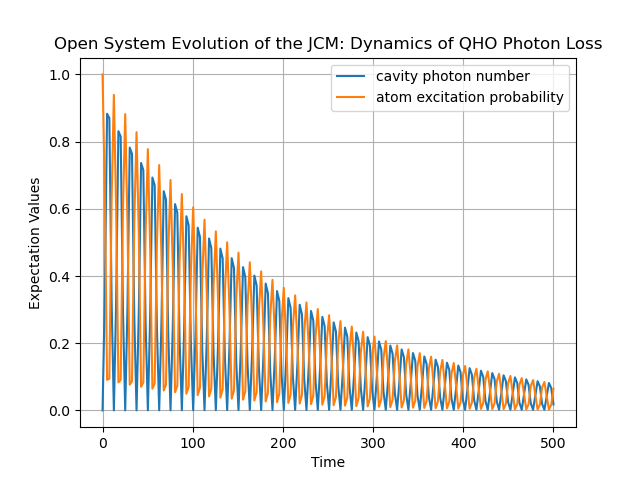
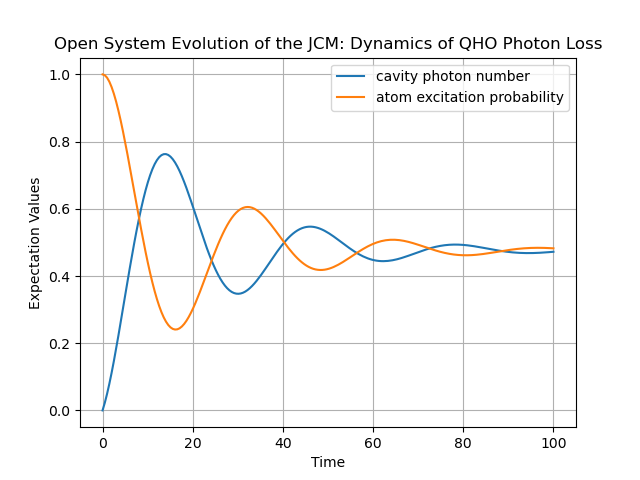
Refactors Simulation code into open and closed sim files for finer control.

diff --git a/Research Project/Code/Open_JCM_Sim.py b/Research Project/Code/Open_JCM_Sim.py
@@ -1,17 +1,20 @@
 from TLSQHOSimulator import TLSQHOSimulator
 import qutip as q
 import numpy as np
-from scipy.constants import k as k_B
+from scipy.constants import k as K_B, h
+
+############################## SETUP ######################################
+
+tlist = np.linspace(0.0, 100.0, 200)
 
 # constants
-w = 1.0
-g = 1.0
+w = 1.0  # natural units, w = 1, hbar =1, kb = 1, GHz freq
+g = 0.1
 N = 2
 
 # Bases
 basis_atom_e = q.basis(2, 0)
 basis_qho_0 = q.basis(N, 0)
-
 
 # Operators
 a = q.tensor(q.qeye(2), q.destroy(N))
@@ -20,60 +23,52 @@ s_z = q.tensor(q.sigmaz(), q.qeye(N))
 s_lower = q.tensor(q.sigmam(), q.qeye(N))
 s_raise = s_lower.dag()
 
-
-psi0 = q.tensor(basis_atom_e, basis_qho_0)
-
-# Jaynes-Cummings Hamiltonian
+# Hamiltonian
 H = 0.5 * w * s_z + w * (adag * a + 0.5) + g * (adag * s_lower + a * s_raise)
 
-# Closed Dynamics
-sim_closed = TLSQHOSimulator(H, psi0)
-results_closed = sim_closed.evolve()
-vne_closed = sim_closed.vne(results_closed)
-coherence_closed = sim_closed.rel_coherence(results_closed)
+# Init cond
+psi0 = q.tensor(basis_atom_e, basis_qho_0)
 
-# Open Dynamics (Spontaneous Emission)
-gamma = np.sqrt(0.1)
+########################## OPEN SIM SETUP #################################
+
+# Constants
+gamma = 0.2
+gamma_th = 0.01
+T_K = 1  # T in Kelvin, gives clear picture of decay dynamics
+T = (K_B * T_K) / (
+    h * 1e9
+)  # T in natural units, using (K_b/ h * freq) as a conversion factor
+n_omega = 1 / (np.exp(w / T) - 1)
+
+# Operators
+e_ops = [adag * a, s_raise * s_lower]
 
 L_tls = [gamma * s_lower]
-times_open = np.linspace(0.0, 500.0, 200)
-e_ops = [adag * a, s_raise * s_lower]
-sim_open_tls = TLSQHOSimulator(H, psi0, L_tls, e_ops, times_open)
+L_qho = [
+    gamma_th * (n_omega + 1) * a,  # photon loss
+    gamma_th * n_omega * adag,  # photon gain
+]
+
+############################ SIMULATION ###################################
+
+# TLS
+sim_open_tls = TLSQHOSimulator(H, psi0, L_tls, e_ops, times=tlist)
 results_open_tls = sim_open_tls.evolve()
 expect_open_tls = sim_open_tls.expect(results_open_tls)
 
-# Open Dynamics (QHO Photon Loss)
-gamma_th = 0.1
-T = 300  # avg T in Kelvin
-n_omega = 1 / (np.exp(w / (k_B * T)) - 1)
-
-
-L_qho = [gamma_th * (1 + n_omega) * a, gamma_th * n_omega * adag]
-sim_open_qho = TLSQHOSimulator(H, psi0, L_qho, e_ops, times_open)
+# QHO
+sim_open_qho = TLSQHOSimulator(H, psi0, L_qho, e_ops, times=tlist)
 results_open_qho = sim_open_qho.evolve()
 expect_open_qho = sim_open_qho.expect(results_open_qho)
 
+# QHO + TLS
 L_tlsqho = L_qho + L_tls
-sim_open_tlsqho = TLSQHOSimulator(H, psi0, L_tlsqho, e_ops)
+sim_open_tlsqho = TLSQHOSimulator(H, psi0, L_tlsqho, e_ops, times=tlist)
 results_open_tlsqho = sim_open_tlsqho.evolve()
 expect_open_tlsqho = sim_open_tlsqho.expect(results_open_tlsqho)
 
 
-# Plots
-sim_closed.plot(
-    vne_closed,
-    "Closed System Evolution of the JCM: Entanglement Oscillations",
-    "Entanglement",
-    "CQS_ent",
-    "JCM",
-)
-sim_closed.plot(
-    coherence_closed,
-    "Closed System Evolution of the JCM: Coherence Oscillations",
-    "Coherence",
-    "CQS_coh",
-    "JCM",
-)
+############################### PLOTS #####################################
 
 sim_open_tls.plot(
     expect_open_tls,

diff --git a/Research Project/Code/Closed_JCM_Sim.py b/Research Project/Code/Closed_JCM_Sim.py
@@ -1,0 +1,57 @@
+from TLSQHOSimulator import TLSQHOSimulator
+import qutip as q
+import numpy as np
+
+
+############################## SETUP ######################################
+
+tlist = np.linspace(0.0, 100.0, 200)
+
+# constants
+w = 1.0  # natural units, w = 1, hbar =1, kb = 1, GHz freq
+g = 0.1
+N = 2
+
+# Bases
+basis_atom_e = q.basis(2, 0)
+basis_qho_0 = q.basis(N, 0)
+
+
+# Operators
+a = q.tensor(q.qeye(2), q.destroy(N))
+adag = a.dag()
+s_z = q.tensor(q.sigmaz(), q.qeye(N))
+s_lower = q.tensor(q.sigmam(), q.qeye(N))
+s_raise = s_lower.dag()
+
+
+psi0 = q.tensor(basis_atom_e, basis_qho_0)
+
+# Jaynes-Cummings Hamiltonian
+H = 0.5 * w * s_z + w * (adag * a + 0.5) + g * (adag * s_lower + a * s_raise)
+
+
+############################ SIMULATION ###################################
+
+sim_closed = TLSQHOSimulator(H, psi0, times=tlist)
+results_closed = sim_closed.evolve()
+vne_closed = sim_closed.vne(results_closed)
+coherence_closed = sim_closed.rel_coherence(results_closed)
+
+
+############################### PLOTS #####################################
+
+sim_closed.plot(
+    vne_closed,
+    "Closed System Evolution of the JCM: Entanglement Oscillations",
+    "Entanglement",
+    "CQS_ent",
+    "JCM",
+)
+sim_closed.plot(
+    coherence_closed,
+    "Closed System Evolution of the JCM: Coherence Oscillations",
+    "Coherence",
+    "CQS_coh",
+    "JCM",
+)

diff --git a/Research Project/Code/TLSQHOSimulator.py b/Research Project/Code/TLSQHOSimulator.py
@@ -67,7 +67,9 @@ class TLSQHOSimulator:
             self.e_ops = e_ops
 
         if times is None:
-            self.times = np.linspace(0.0, 20.0, 200)
+            self.times = np.linspace(
+                0.0, 1000.0, 200
+            )  # if using natural units, its in units of 1/w which if w = 1GHz is 1ns
         else:
             if not isinstance(times, np.ndarray):
                 raise TypeError("The list of times must be a NumPy array.")
